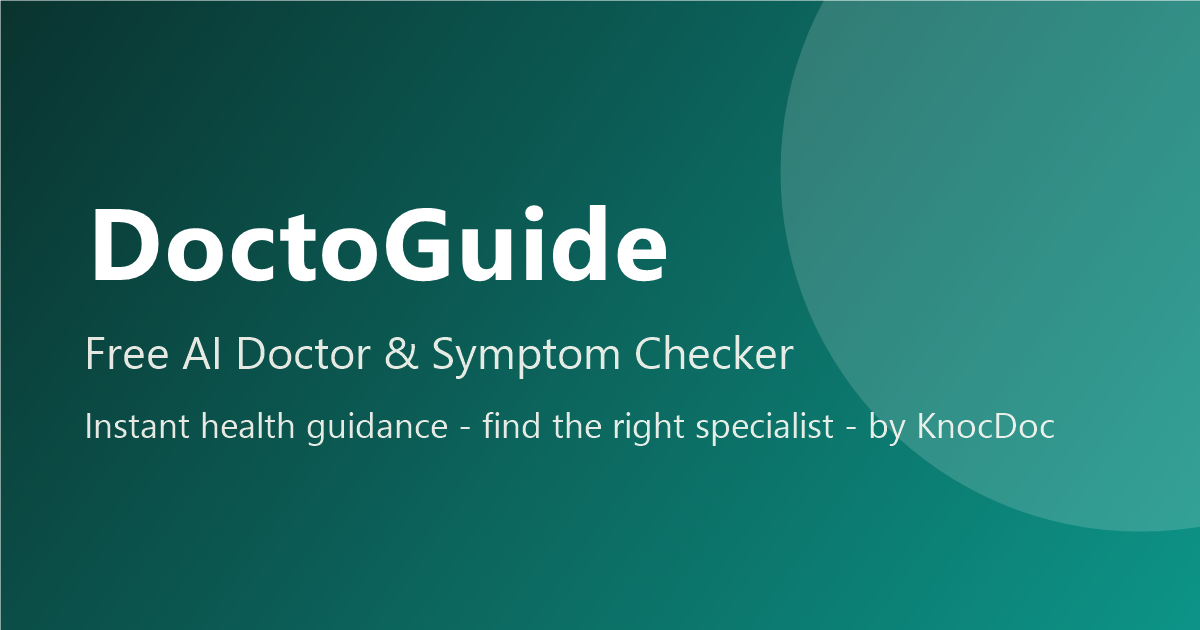
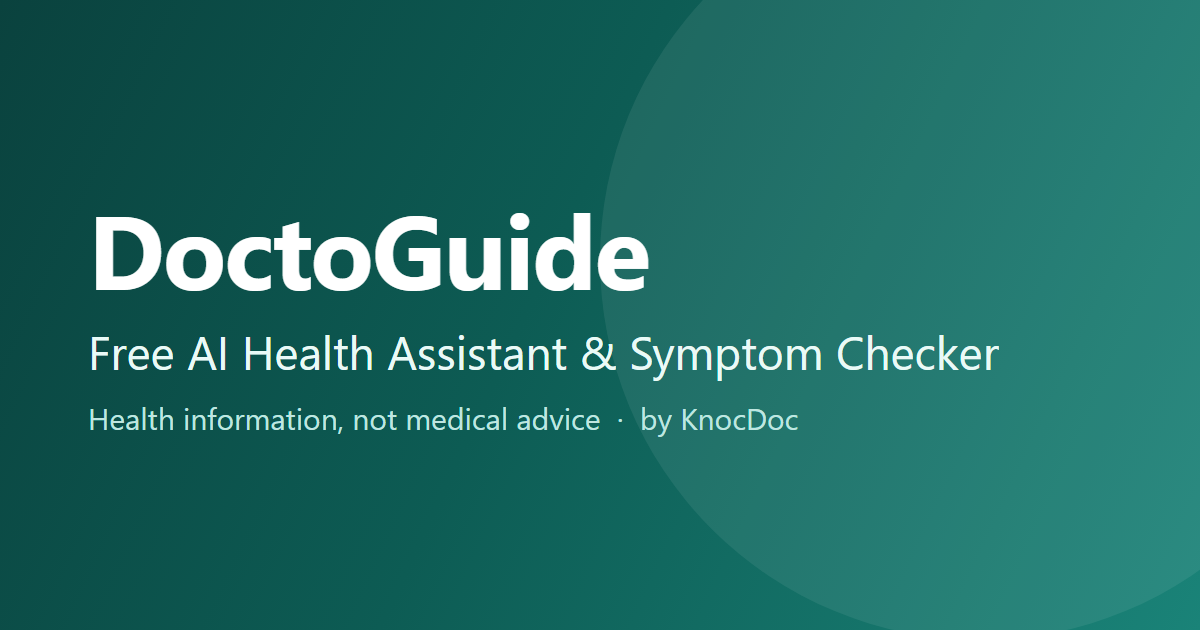
fix(ads): remove "AI Doctor" from social cards, add neutral /start card
The Ads compliance pass in ae2b67f replaced "AI doctor" with "AI health
assistant" across every title, meta description and body copy, but missed
the social card image. assets/og-image.png still read "Free AI Doctor &
Symptom Checker" and shipped as og:image and twitter:image on every page
via SeoService DEFAULTS, /start included.

- og-image.png regenerated: "Free AI Health Assistant & Symptom Checker /
  Health information, not medical advice - by KnocDoc".
- og-start.png added for the paid landing page, carrying no health,
  symptom or condition vocabulary, per ADS_COMPLIANCE_PLAN.md 3.3.
- seo.image set on the /start route. This is needed even though
  postbuild-seo.js strips og:image from the prerendered /start, because
  SeoService.update() re-adds the tag on hydration and would otherwise
  re-add the health-worded default.
- ADS_COMPLIANCE_PLAN.md: 3.6 row closed, and 1 annotated with the
  official policy text, which confirms this is the personalised
  advertising targeting policy rather than Healthcare and medicines.

Verified: npm run build green, npm run seo:check 504/504 assertions,
/start absent from sitemap.xml with noindex intact, and no occurrence of
"AI Doctor" left in any prerendered HTML.

Claude-Session: https://claude.ai/code/session_01PuQNDE2TFZEWRwiZXAmDe8

Changed region(s): [[0.0617, 0.6333, 1.0, 1.0], [0.0617, 0.3317, 0.555, 0.4825], [0.0617, 0.5127, 0.8325, 0.6032]]

diff --git a/src/app/app-routing.module.ts b/src/app/app-routing.module.ts
@@ -20,6 +20,7 @@ import { HealthTopicsIndexComponent } from './seo-pages/health-topics-index.comp
 import { HealthTopicPageComponent } from './seo-pages/health-topic-page.component';
 import { NotFoundComponent } from './seo-pages/not-found.component';
 import { HEALTH_TOPICS } from './seo-pages/health-topics.data';
+import { SITE_URL } from './core/seo.service';
 
 /**
  * One route per health topic, generated from the hand-written content list.
@@ -69,6 +70,12 @@ const routes: Routes = [
         description:
           'Free tool from KnocDoc. Tell it what you are looking for in plain language, see which options could fit, and find listings near you. No sign-up, no card.',
         robots: 'noindex,nofollow',
+        // The default social card (assets/og-image.png) names the product a
+        // symptom checker, which is accurate for the organic site but is exactly
+        // the vocabulary this page avoids — og:image is meta content on the page
+        // AdsBot crawls. og-start.png carries the same brand treatment with no
+        // health, symptom or condition wording. See ADS_COMPLIANCE_PLAN.md 3.3/3.6.
+        image: `${SITE_URL}/assets/og-start.png`,
       },
     },
   },

diff --git a/ADS_COMPLIANCE_PLAN.md b/ADS_COMPLIANCE_PLAN.md
@@ -26,6 +26,15 @@ allowed once a page is classified as health (see §3.4), which would limit it re
 
 ## 1. What the policy actually does (read this before changing anything)
 
+> **Confirmed 21 Aug** against the policy text in the Ads UI ("Health in personalised
+> advertising"). The diagnosis below is correct: it is a **targeting** policy, and Google's
+> own three remedies are (1) remove advertiser-curated audiences, (2) edit the content,
+> (3) appeal. Option 1 is the one that can actually clear the status — see §3.4.
+> One clarification from the official text: custom segments are listed as *supported*, but
+> footnote 4 says a custom segment with a sensitive landing page **serves only on Display,
+> to non-sensitive audiences or contextually, and does not serve at all on any other
+> campaign type**. So on Search or Performance Max the practical answer is still: remove them.
+
 The policy you pasted is **"Restricted targeting in personalised advertising"**. It is *not*
 a disapproval policy. Once Google classifies your creative or landing page as the health
 sensitive interest category, the ad **keeps running** — but these targeting types stop
@@ -203,7 +212,7 @@ symptom conversation.
 
 | Item | Why it matters | Owner |
 |---|---|---|
-| `assets/og-image.png` still reads "AI Health Guide & Symptom Checker" | It is the `og:image` on `/start` too. Ship a neutral variant (`og-start.png`) and set `seo.image` on the `/start` route. | design |
+| ~~`assets/og-image.png` still reads "AI Health Guide & Symptom Checker"~~ **DONE, 21 Aug** — and it was worse than recorded here: the card actually read **"Free AI Doctor & Symptom Checker"**, the one phrase §3A removed everywhere else, shipping as `og:image`/`twitter:image` on *every* page via `SeoService` DEFAULTS. Both cards regenerated: `og-image.png` now reads "Free AI Health Assistant & Symptom Checker / Health information, not medical advice", and a new `og-start.png` ("Know Who to Book / Find the right kind of doctor near you") carries no health, symptom or condition wording. `seo.image` set on the `/start` route — needed even though `postbuild-seo.js` strips `og:image` from the prerendered `/start`, because `SeoService.update()` re-adds the tag on hydration, and before this it re-added the health-worded default. | done |
 | Switch the campaign's **Final URL** to `https://doctoguide.knocdoc.in/start` | Nothing above takes effect until this happens. | you, in the Ads UI |
 | Consider a second variant `/start-b` for a doctor-directory-first angle | Lets you A/B without touching the SEO homepage. | later |
 | The `/triage` destination still asks for symptoms | Unavoidable — it is the product. Kept behind the CTA, `noindex`, and `Disallow: /triage` in robots.txt. | accepted risk |
